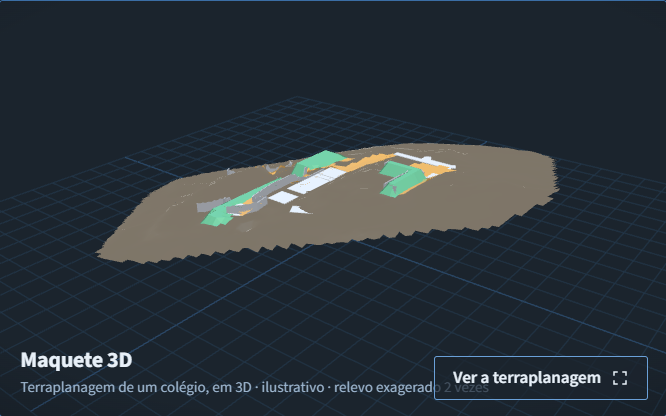
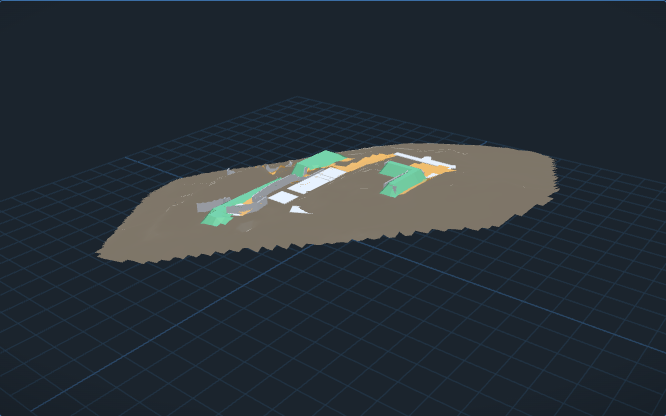
fix(site): ajustar primeira dobra e previa da experiencia v02

Changed region(s): [[0.03, 0.8438, 0.9009, 0.9688]]

diff --git a/assets/css/experiencia-v02.css b/assets/css/experiencia-v02.css
@@ -53,3 +53,11 @@
 
 .experiencia-v02 .previa-terreno{aspect-ratio:8/5;background:var(--pale)}
 .experiencia-v02 .previa-terreno img{height:100%;object-fit:contain}
+/* Telas estreitas e baixas: CTA completo na primeira dobra sem cortar a copy. */
+@media(max-width:360px) and (max-height:650px){
+.experiencia-v02 .bloco-1{padding-block:16px 24px}
+.experiencia-v02 .bloco-1 h1{font-size:32px;line-height:1.05;margin:12px 0 16px}
+.experiencia-v02 .bloco-1 p{font-size:16px;line-height:1.35;margin-bottom:12px}
+.experiencia-v02 .bloco-1 .eyebrow{font-size:12px}
+.experiencia-v02 .bloco-1 .acao{min-height:48px;padding:12px 18px;font-size:18px}
+.experiencia-v02 .bloco-1 .micro{font-size:14px}}
